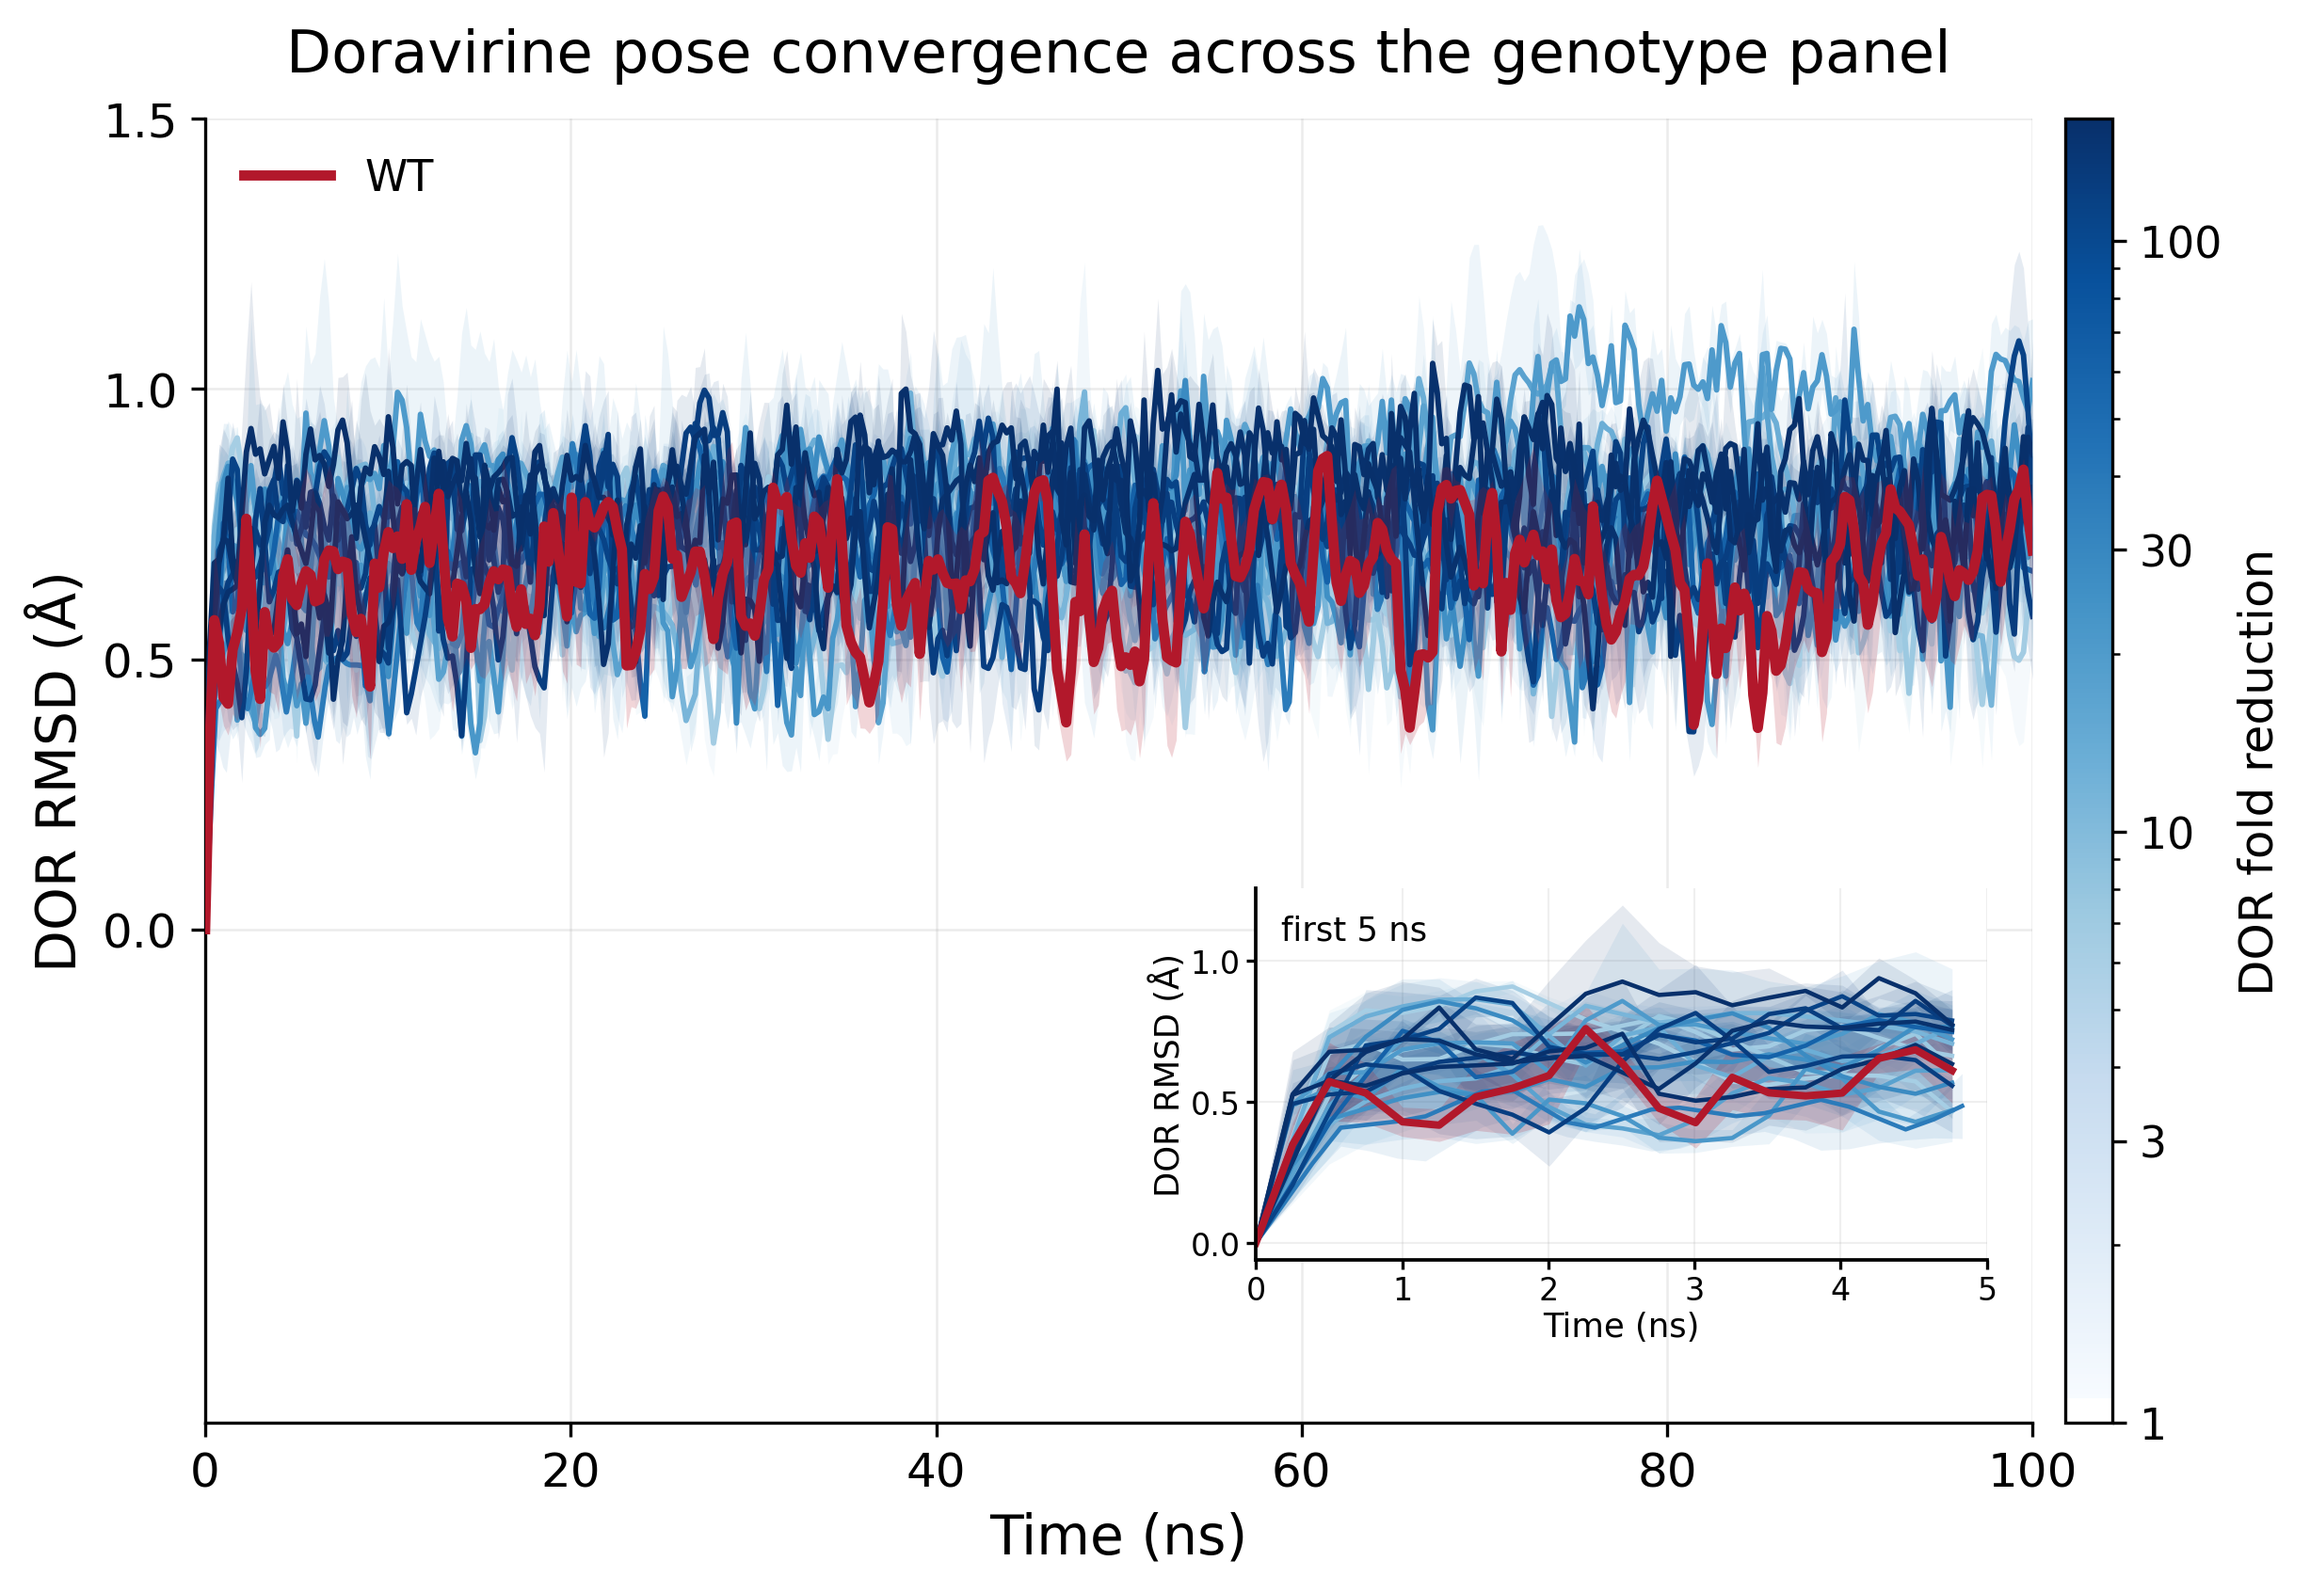
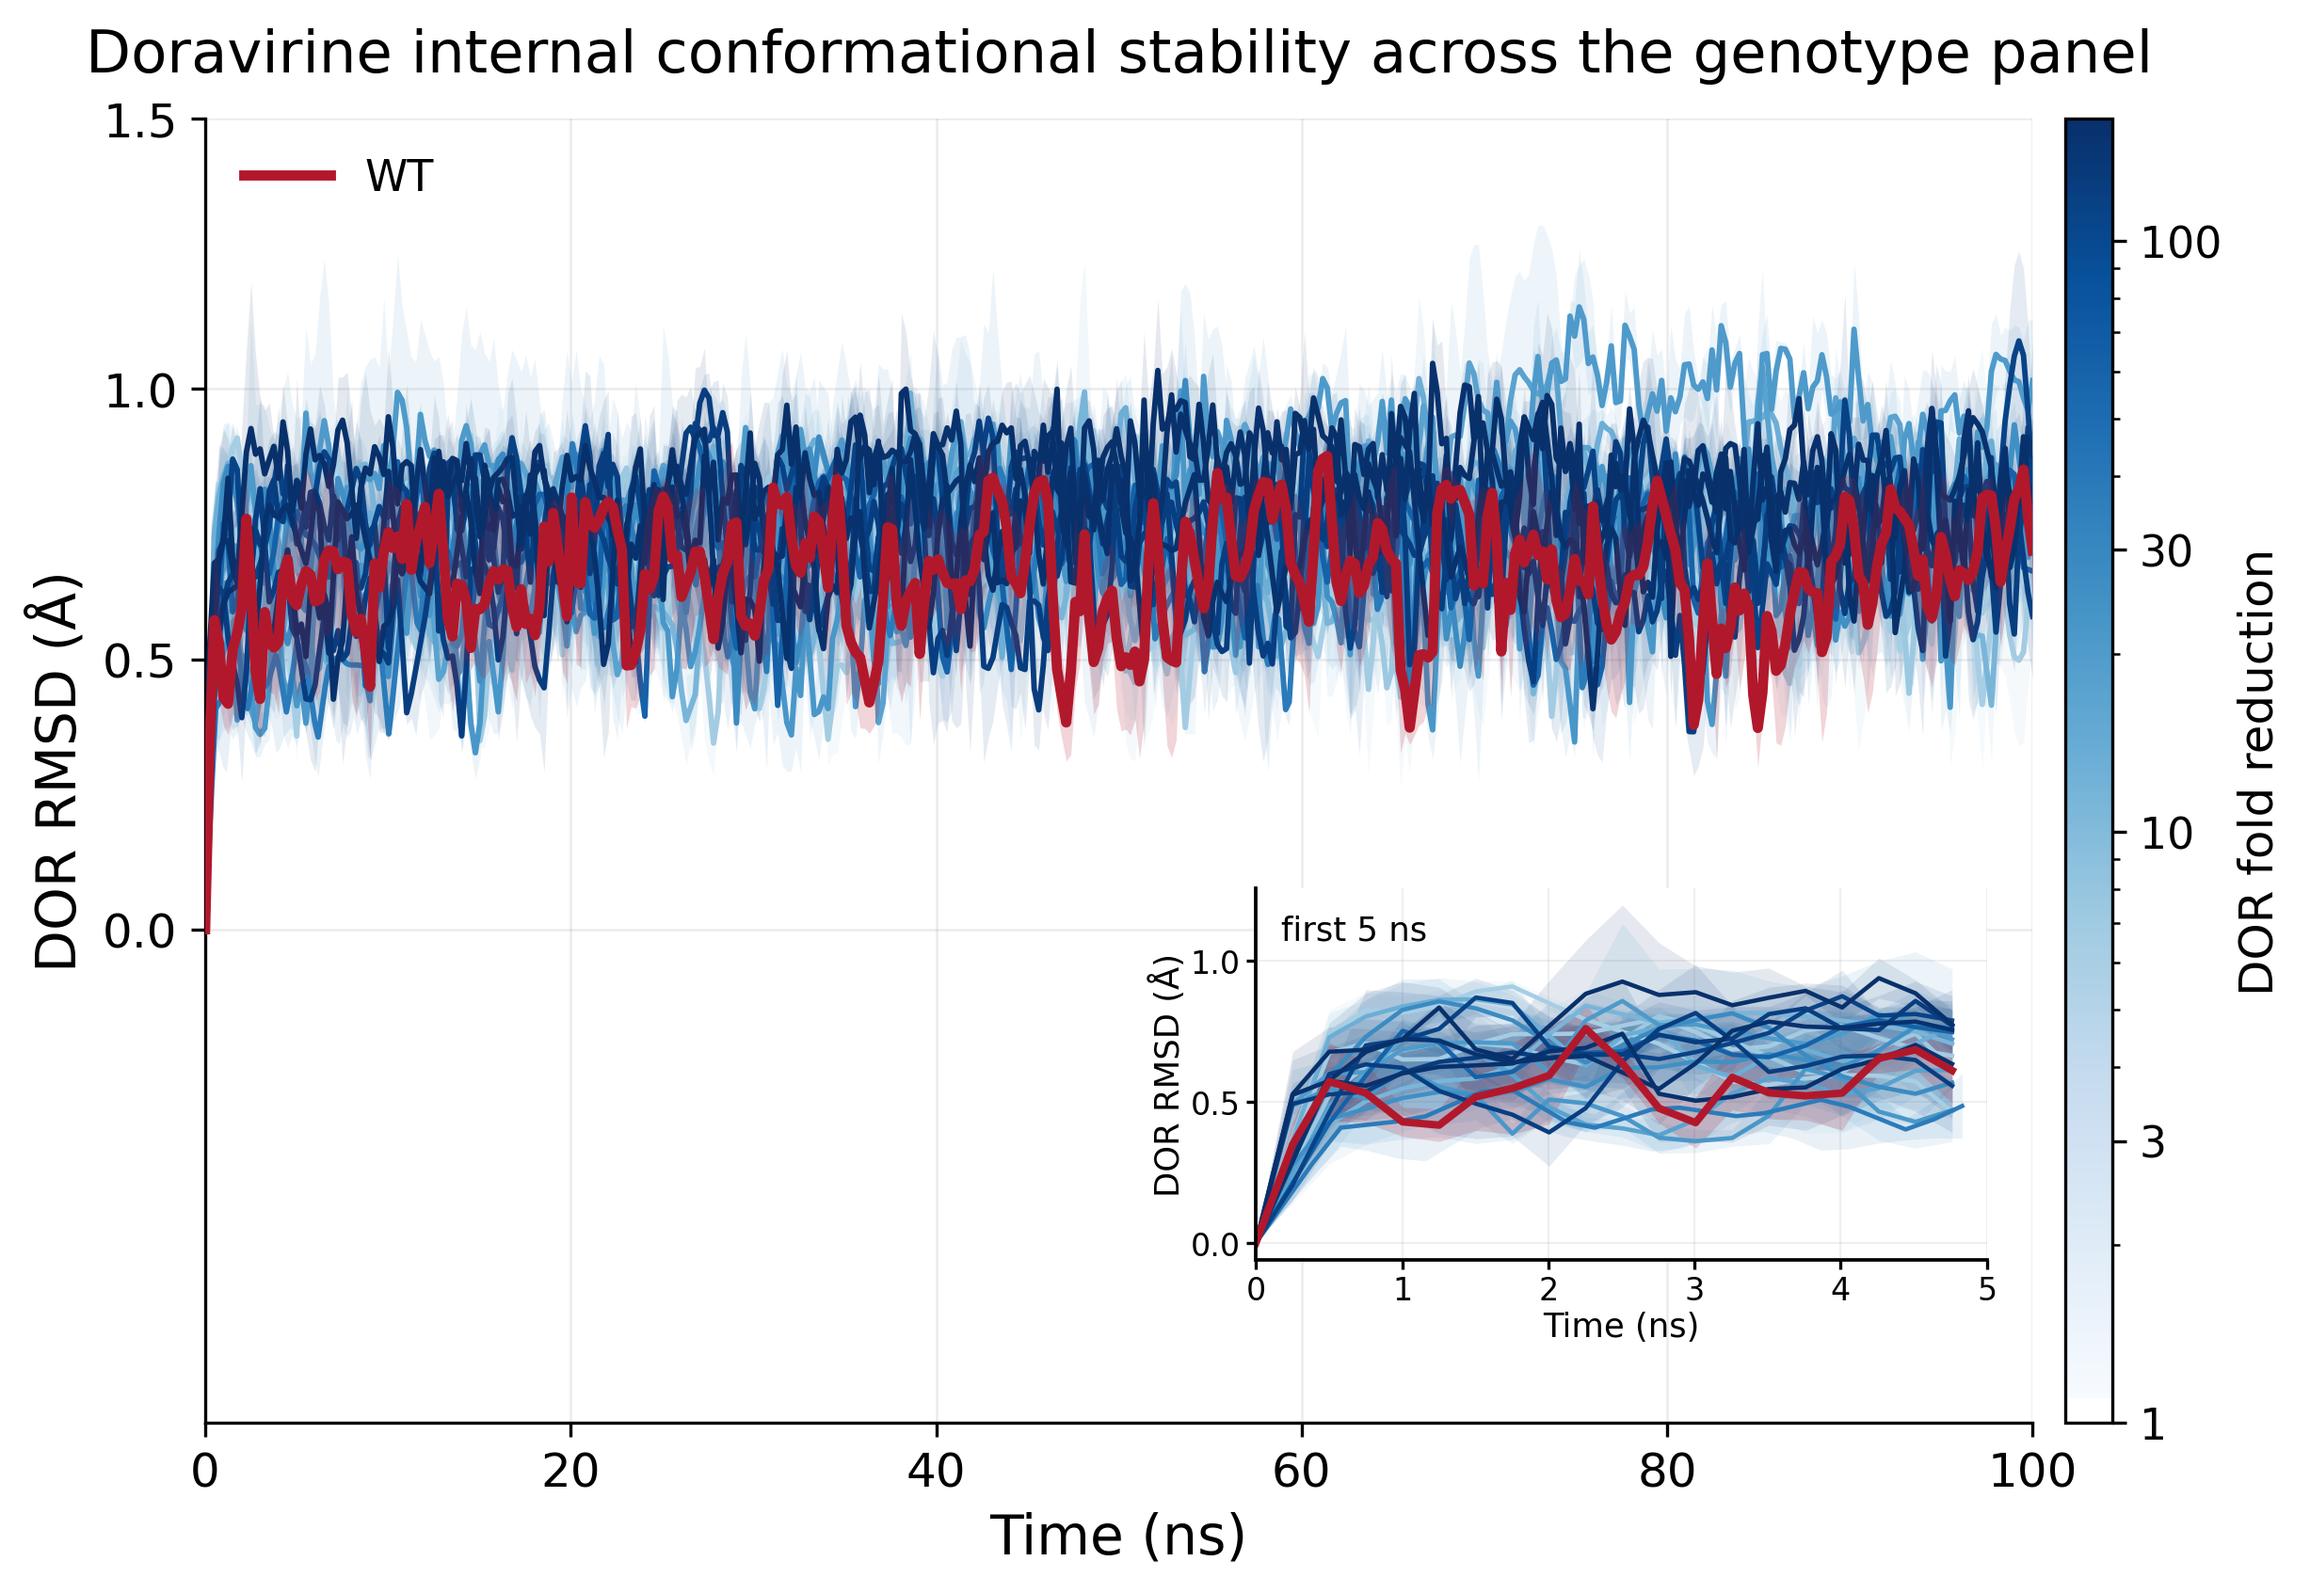
md_convergence: name the COM metric correctly; drop a dead superposition
The COM figure was labelled "DOR-pocket separation", but the reference is the
centroid of the entire RT heterodimer, not the pocket -- which is why the
baseline sits near 31 A rather than near zero. Renamed to DOR-RT COM distance,
matching the label the computation itself uses.

Also removes a misleading no-op from _process_job. It superposed each frame on
the NNIBP Calpha atoms before calling md.rmsd over the ligand, implying the
result was ligand pose drift within the pocket. md.rmsd superposes on its own
atom_indices, so that alignment was silently discarded: deleting the line
changes the result by ~1e-5 A. The quantity was, and remains, the ligand's
INTERNAL conformational RMSD -- rigid-body motion removed by construction,
leaving torsional change about the ether, methylene and triazolone linkers. The
comment now says so, and the DOR figure title no longer says "pose".

Stored frame_traces.csv values are unaffected at any reported precision, so no
recompute was needed.

Changed region(s): [[0.031, 0.0, 0.9291, 0.0614]]

diff --git a/src/analysis/cli/plot_convergence_panel.py b/src/analysis/cli/plot_convergence_panel.py
@@ -6,9 +6,11 @@ DOR fold reduction so the reader can see that the metric carries no resistance
 ordering. Fold values come from the authoritative susceptibility spreadsheet,
 never from the manifest.
 
-``--metric`` selects the quantity: backbone RMSD, ligand RMSD, or the
-ligand-pocket centre-of-mass separation. The first two start at zero by
-construction; the COM distance is an absolute separation and does not.
+``--metric`` selects the quantity: backbone RMSD, ligand internal RMSD, or the
+ligand-to-whole-protein centre-of-mass separation. The first two start at zero
+by construction; the COM distance is an absolute separation and does not. Note
+the COM reference is the centre of the entire RT heterodimer, not the pocket,
+which is why the baseline sits near 31 A.
 
 Replicates run to slightly different lengths, so each genotype's trace stops at
 its shortest replicate: the mean is always over n = 3, never a changing
@@ -39,15 +41,15 @@ METRICS = {
         "column": "dor_rmsd_angstrom",
         "ylabel": "DOR RMSD (\u00c5)",
         "inset_ylabel": "DOR RMSD (\u00c5)",
-        "title": "Doravirine pose convergence across the genotype panel",
+        "title": "Doravirine internal conformational stability across the genotype panel",
         "stem": "dor_rmsd_convergence",
         "inset_rect": (0.575, 0.125, 0.40, 0.285),
     },
     "com_distance": {
         "column": "com_distance_angstrom",
-        "ylabel": "DOR\u2013pocket COM distance (\u00c5)",
+        "ylabel": "DOR\u2013RT COM distance (\u00c5)",
         "inset_ylabel": "COM dist. (\u00c5)",
-        "title": "Doravirine\u2013pocket separation across the genotype panel",
+        "title": "Doravirine\u2013RT centre-of-mass separation across the genotype panel",
         "stem": "com_distance_convergence",
         "inset_rect": (0.585, 0.125, 0.39, 0.285),
     },

diff --git a/src/analysis/cli/compute_md_convergence.py b/src/analysis/cli/compute_md_convergence.py
@@ -153,9 +153,13 @@ def _process_job(job: dict, resid_offset: int, contact_cutoff: float) -> tuple[p
     traj.superpose(traj, frame=0, atom_indices=ca_idx)
     ca_rmsd = md.rmsd(traj, traj, frame=0, atom_indices=ca_idx) * 10.0
 
-    pose = traj[:]
-    pose.superpose(pose, frame=0, atom_indices=nnibp_ca)
-    dor_rmsd = md.rmsd(pose, pose, frame=0, atom_indices=lig_idx) * 10.0
+    # md.rmsd superposes on atom_indices itself, so this is the ligand's INTERNAL
+    # conformational RMSD: rigid-body motion is removed by construction and only
+    # torsional change about the ether, methylene and triazolone linkers remains.
+    # It is not pose drift within the pocket. A preceding superposition on the
+    # NNIBP Calpha atoms used to sit here and was silently discarded by md.rmsd
+    # (removing it changes the result by ~1e-5 A).
+    dor_rmsd = md.rmsd(traj, traj, frame=0, atom_indices=lig_idx) * 10.0
     nnibp_rg = md.compute_rg(traj.atom_slice(nnibp_ca)) * 10.0
 
     rows = []
